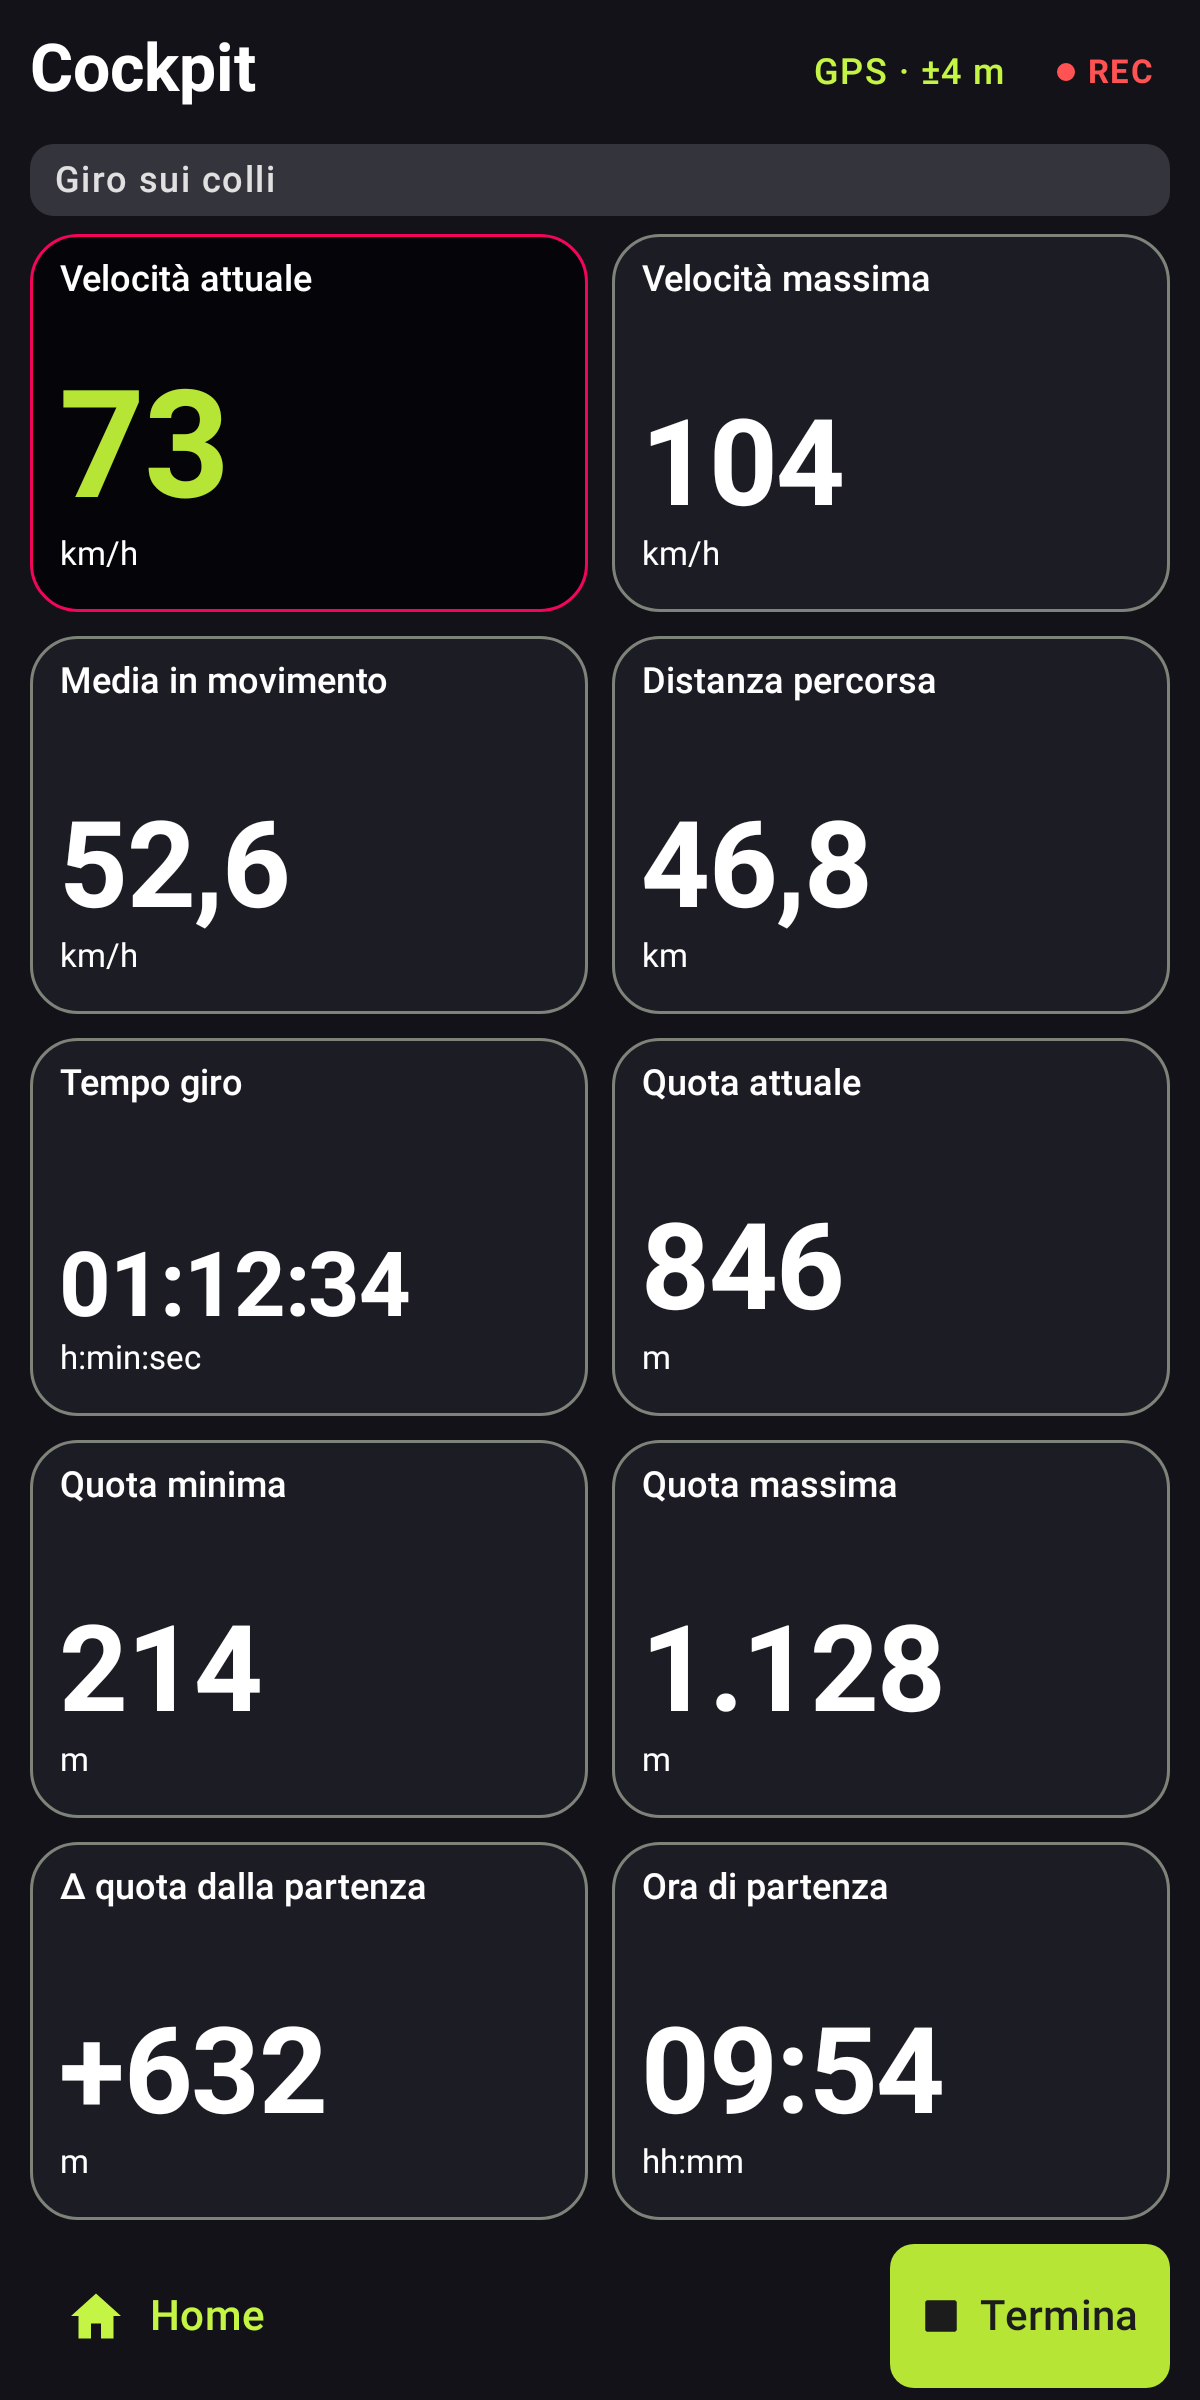
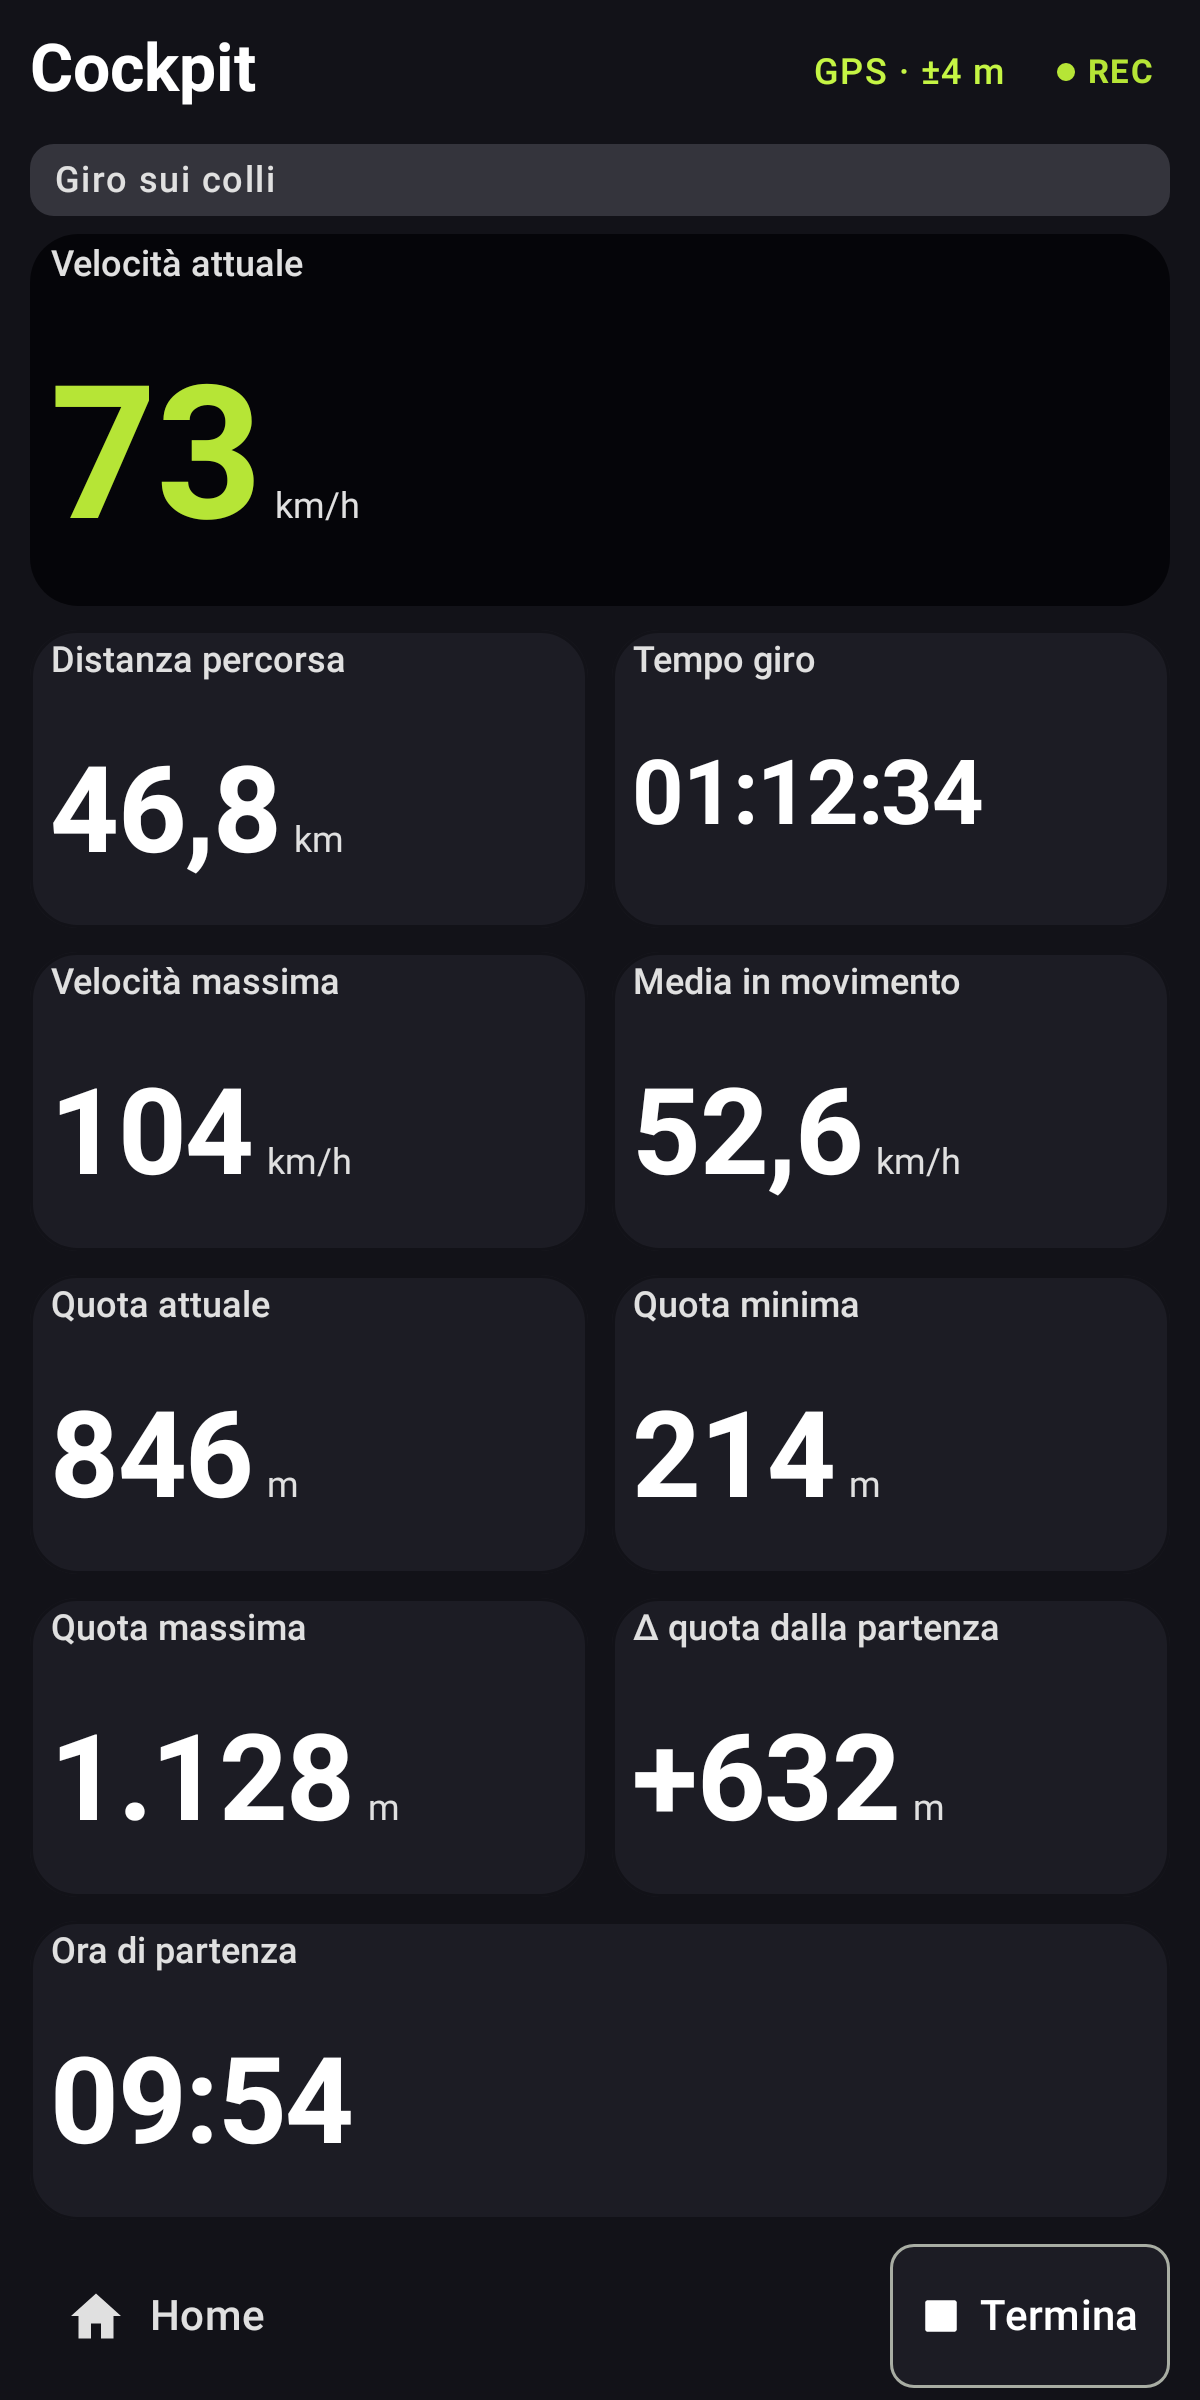
Aggiorna le schermate di GPXdev alla 1.40.1

diff --git a/README.md b/README.md
@@ -8,7 +8,7 @@
 
 Versione **1.40.1** · APK · Android 10 o successivo
 
-![GPXdev in orizzontale: la mappa e i dati del giro nel tema Cyber](https://gianmaria.dev/assets/img/gpxdev/schermate/navigazione-cyber-orizzontale.webp)
+![GPXdev in orizzontale con mappa e dati del giro in tema Cyber](docs/images/cyber-navigazione-landscape.png)
 
 Dati cartografici © [contributori OpenStreetMap](https://www.openstreetmap.org/copyright).
 
@@ -52,11 +52,10 @@ Trovi l'APK di sviluppo in `app/build/outputs/apk/debug/app-debug.apk`.
 
 ## Schermate in verticale
 
-| Dashboard | Navigazione |
-| :---: | :---: |
-| <img src="https://gianmaria.dev/assets/img/gpxdev/schermate/dashboard-cyber.webp" alt="Dashboard di GPXdev in verticale, tema Cyber" width="280"> | <img src="https://gianmaria.dev/assets/img/gpxdev/schermate/navigazione-cyber.webp" alt="Navigazione GPX in verticale, tema Cyber" width="280"> |
-
-Le schermate di dashboard e navigazione mostrano la versione 1.35.1.
+| Schermata | Cyber | Soft |
+| :--- | :---: | :---: |
+| Home | <img src="docs/images/cyber-home-portrait.png" alt="Home di GPXdev in verticale, tema Cyber" width="280"> | <img src="docs/images/soft-home-portrait.png" alt="Home di GPXdev in verticale, tema Soft" width="280"> |
+| Navigazione | <img src="docs/images/cyber-navigazione-portrait.png" alt="Navigazione GPX in verticale, tema Cyber" width="280"> | <img src="docs/images/soft-navigazione-portrait.png" alt="Navigazione GPX in verticale, tema Soft" width="280"> |
 
 ## Funzione Cockpit
 
@@ -68,6 +67,20 @@ Quando arrivi, tocca **Termina** per vedere il riepilogo. Se vuoi tenere il giro
 
 | Cockpit Cyber | Cockpit Soft |
 | :---: | :---: |
-| <img src="docs/images/cockpit-cyber-portrait.png" alt="Mockup del Cockpit in verticale, tema Cyber" width="280"> | <img src="docs/images/cockpit-soft-portrait.png" alt="Mockup del Cockpit in verticale, tema Soft" width="280"> |
+| <img src="docs/images/cockpit-cyber-portrait.png" alt="Cockpit in verticale, tema Cyber" width="280"> | <img src="docs/images/cockpit-soft-portrait.png" alt="Cockpit in verticale, tema Soft" width="280"> |
 
-Mockup della versione 1.37.0 con dati di esempio.
+<details>
+<summary>Altre schermate di GPXdev</summary>
+
+| Mappa offline | Archivio GPX | Riepilogo del giro |
+| :---: | :---: | :---: |
+| <img src="docs/images/cyber-mappa-portrait.png" alt="Esplorazione della mappa offline, tema Cyber" width="200"> | <img src="docs/images/soft-archivio-gpx-portrait.png" alt="Archivio delle tracce GPX, tema Soft" width="200"> | <img src="docs/images/soft-riepilogo-cockpit-portrait.png" alt="Riepilogo del giro registrato con Cockpit, tema Soft" width="200"> |
+
+| In orizzontale | Schermata |
+| :--- | :---: |
+| Home Cyber | <img src="docs/images/cyber-home-landscape.png" alt="Home in orizzontale, tema Cyber" width="560"> |
+| Mappa Cyber | <img src="docs/images/cyber-mappa-landscape.png" alt="Esplorazione della mappa in orizzontale, tema Cyber" width="560"> |
+| Navigazione Soft | <img src="docs/images/soft-navigazione-landscape.png" alt="Navigazione GPX in orizzontale, tema Soft" width="560"> |
+| Cockpit Cyber | <img src="docs/images/cyber-cockpit-landscape.png" alt="Cockpit in orizzontale, tema Cyber" width="560"> |
+
+</details>
